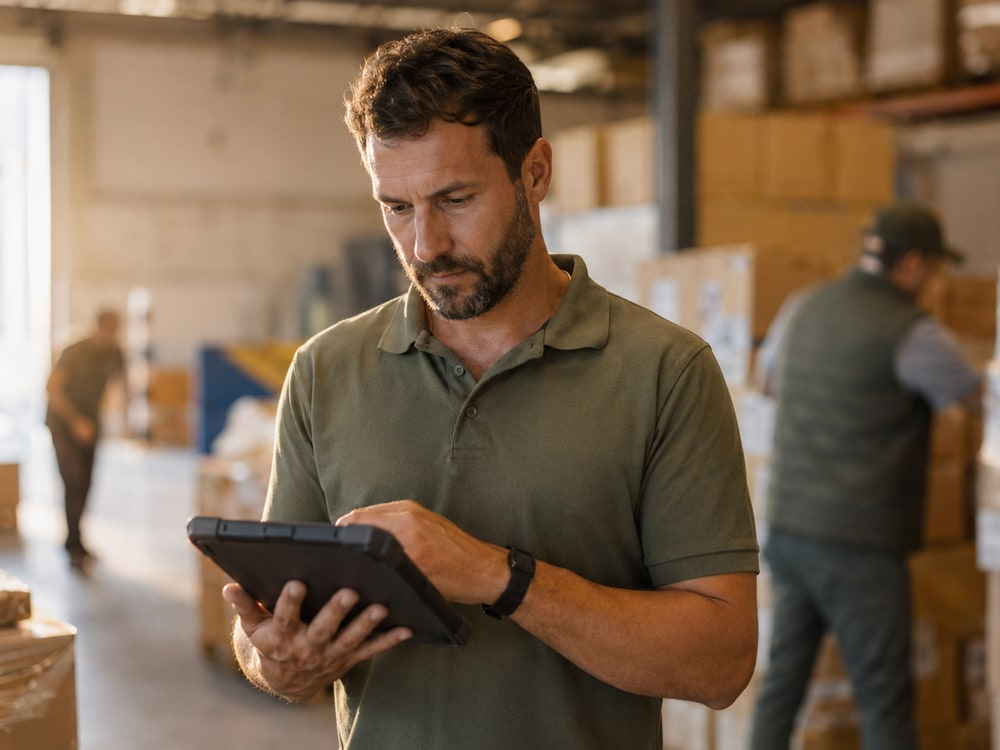
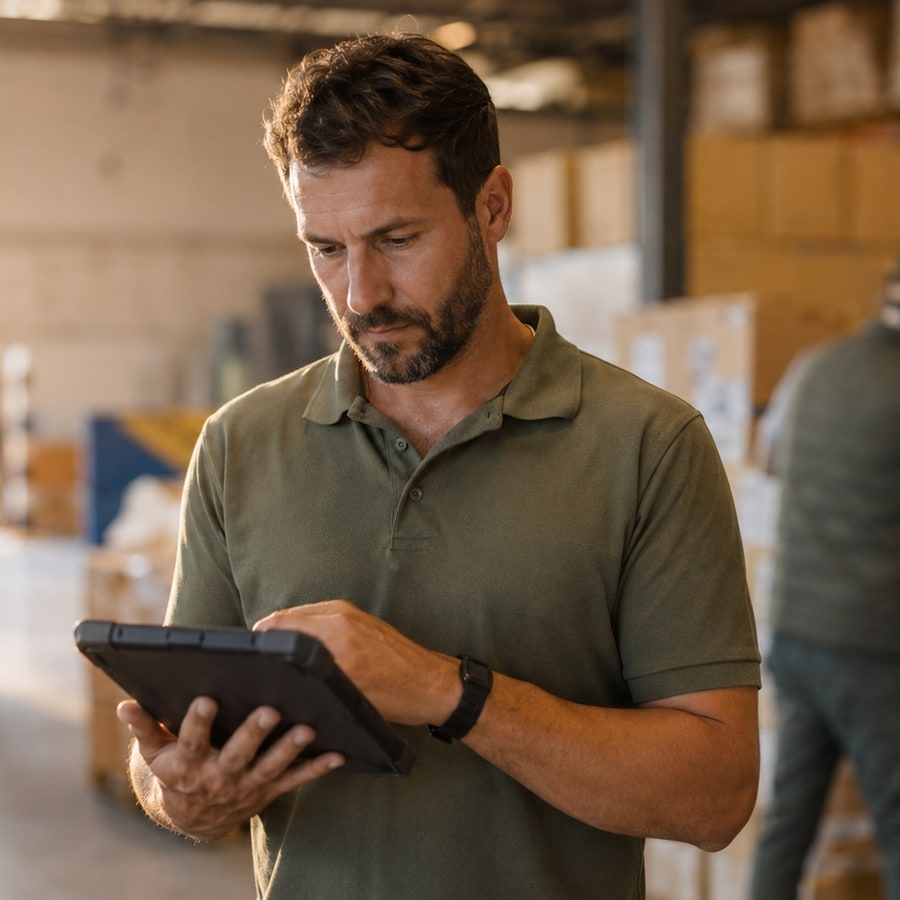
Квадратні картки напрямів із заголовком на фото та кнопкою при наведенні
- Фото напрямів перекадровані 1:1 із оригіналів
- Заголовок лежить на знімку знизу на градієнтній підкладці
- Кнопка «Переглянути проєкти» розгортається при наведенні,
  на сенсорних екранах показується одразу
- Переклад тіл проєктів додано до scripts/i18n/translate.js — англійські
  сторінки проєктів більше не показують український текст

Claude-Session: https://claude.ai/code/session_0154L7r1tvjFE8rTWUGx1arc

diff --git a/src/styles.css b/src/styles.css
@@ -815,34 +815,15 @@ main > article,
   grid-template-columns: repeat(4, 1fr);
   gap: clamp(18px, 2.5vw, 30px);
 }
-.focus-photos article { display: flex; flex-direction: column; }
+.focus-photos article { display: flex; }
 /* Уся картка — посилання на свою групу проєктів. */
-.focus-photos a {
-  display: flex;
-  flex-direction: column;
-  flex: 1;
-  gap: 12px;
-}
+.focus-photos a { display: block; width: 100%; }
 /* якір ураховує липкий хедер, щоб заголовок групи не ховався під ним */
 [id="gumanitarne"], [id="cyfrova"], [id="energetyka"], [id="viyskova"] { scroll-margin-top: 90px; }
-.focus-photos h3 {
-  font-size: 16px;
-  font-weight: 600;
-  line-height: 1.35;
-  text-align: center;
-  color: var(--brand-deep);
-}
-.focus-cta {
-  margin-top: auto;
-  padding-top: 2px;
-  text-align: center;
-  font-size: 14px;
-  font-weight: 600;
-  color: var(--brand);
-  transition: color var(--t);
-}
+
 .focus-photo {
-  aspect-ratio: 4 / 3;
+  position: relative;
+  aspect-ratio: 1 / 1;
   overflow: hidden;
   border-radius: var(--radius-media);
   background: var(--surface-2);
@@ -854,10 +835,49 @@ main > article,
   display: block;
   transition: transform 480ms var(--ease);
 }
-/* ефект при наведенні: знімок трохи наближається, підпис яскравішає */
+/* Підпис лежить на знімку. Градієнтна підкладка знизу тримає контраст
+   білого тексту незалежно від того, що на фото. */
+.focus-overlay {
+  position: absolute;
+  inset: auto 0 0 0;
+  padding: 34px 16px 16px;
+  background: linear-gradient(180deg,
+    rgba(12, 15, 9, 0) 0%,
+    rgba(12, 15, 9, 0.62) 40%,
+    rgba(12, 15, 9, 0.92) 78%,
+    rgba(12, 15, 9, 0.96) 100%);
+  text-align: center;
+}
+.focus-overlay h3 {
+  font-size: 15.5px;
+  font-weight: 600;
+  line-height: 1.3;
+  color: #fff;
+  text-shadow: 0 1px 3px rgba(0, 0, 0, 0.45);
+}
+/* Кнопка з'являється при наведенні: розгортаємо max-height, а не
+   display, щоб перехід був плавним. */
+.focus-cta {
+  display: block;
+  overflow: hidden;
+  max-height: 0;
+  opacity: 0;
+  font-size: 13.5px;
+  font-weight: 600;
+  color: var(--brand-light);
+  transition: max-height 320ms var(--ease), opacity 320ms var(--ease), margin-top 320ms var(--ease);
+}
+.focus-photos a:hover .focus-cta,
+.focus-photos a:focus-visible .focus-cta {
+  max-height: 40px;
+  opacity: 1;
+  margin-top: 8px;
+}
 .focus-photos a:hover .focus-photo img { transform: scale(1.06); }
-.focus-photos a:hover h3 { color: var(--brand-bright); }
-.focus-photos a:hover .focus-cta { color: var(--brand-deep); }
+/* На сенсорних екранах наведення немає — показуємо кнопку одразу. */
+@media (hover: none) {
+  .focus-cta { max-height: 40px; opacity: 1; margin-top: 8px; }
+}
 @media (max-width: 900px) {
   .focus-photos { grid-template-columns: repeat(2, 1fr); }
   .focus-photos h3 { min-height: 0; }

diff --git a/scripts/i18n/translate.js b/scripts/i18n/translate.js
@@ -92,12 +92,14 @@ for (const f of fs.readdirSync(NEWS_DIR).filter((f) => f.endsWith(".md"))) {
   if (body) ensureTranslated(body);
 }
 
-// --- projects markdown: title, excerpt (no individual pages, no body needed) ---
+// --- projects markdown: title, excerpt, body (у проєктів є власні сторінки) ---
 console.log("\nprojects/*.md:");
 for (const f of fs.readdirSync(PROJECTS_DIR).filter((f) => f.endsWith(".md"))) {
-  const { data } = matter(fs.readFileSync(path.join(PROJECTS_DIR, f), "utf8"));
+  const { data, content } = matter(fs.readFileSync(path.join(PROJECTS_DIR, f), "utf8"));
   if (data.title) ensureTranslated(data.title);
   if (data.excerpt) ensureTranslated(data.excerpt);
+  const body = content.trim();
+  if (body) ensureTranslated(body);
 }
 
 // --- hardcoded UI strings used directly in templates (not data-driven) ---
